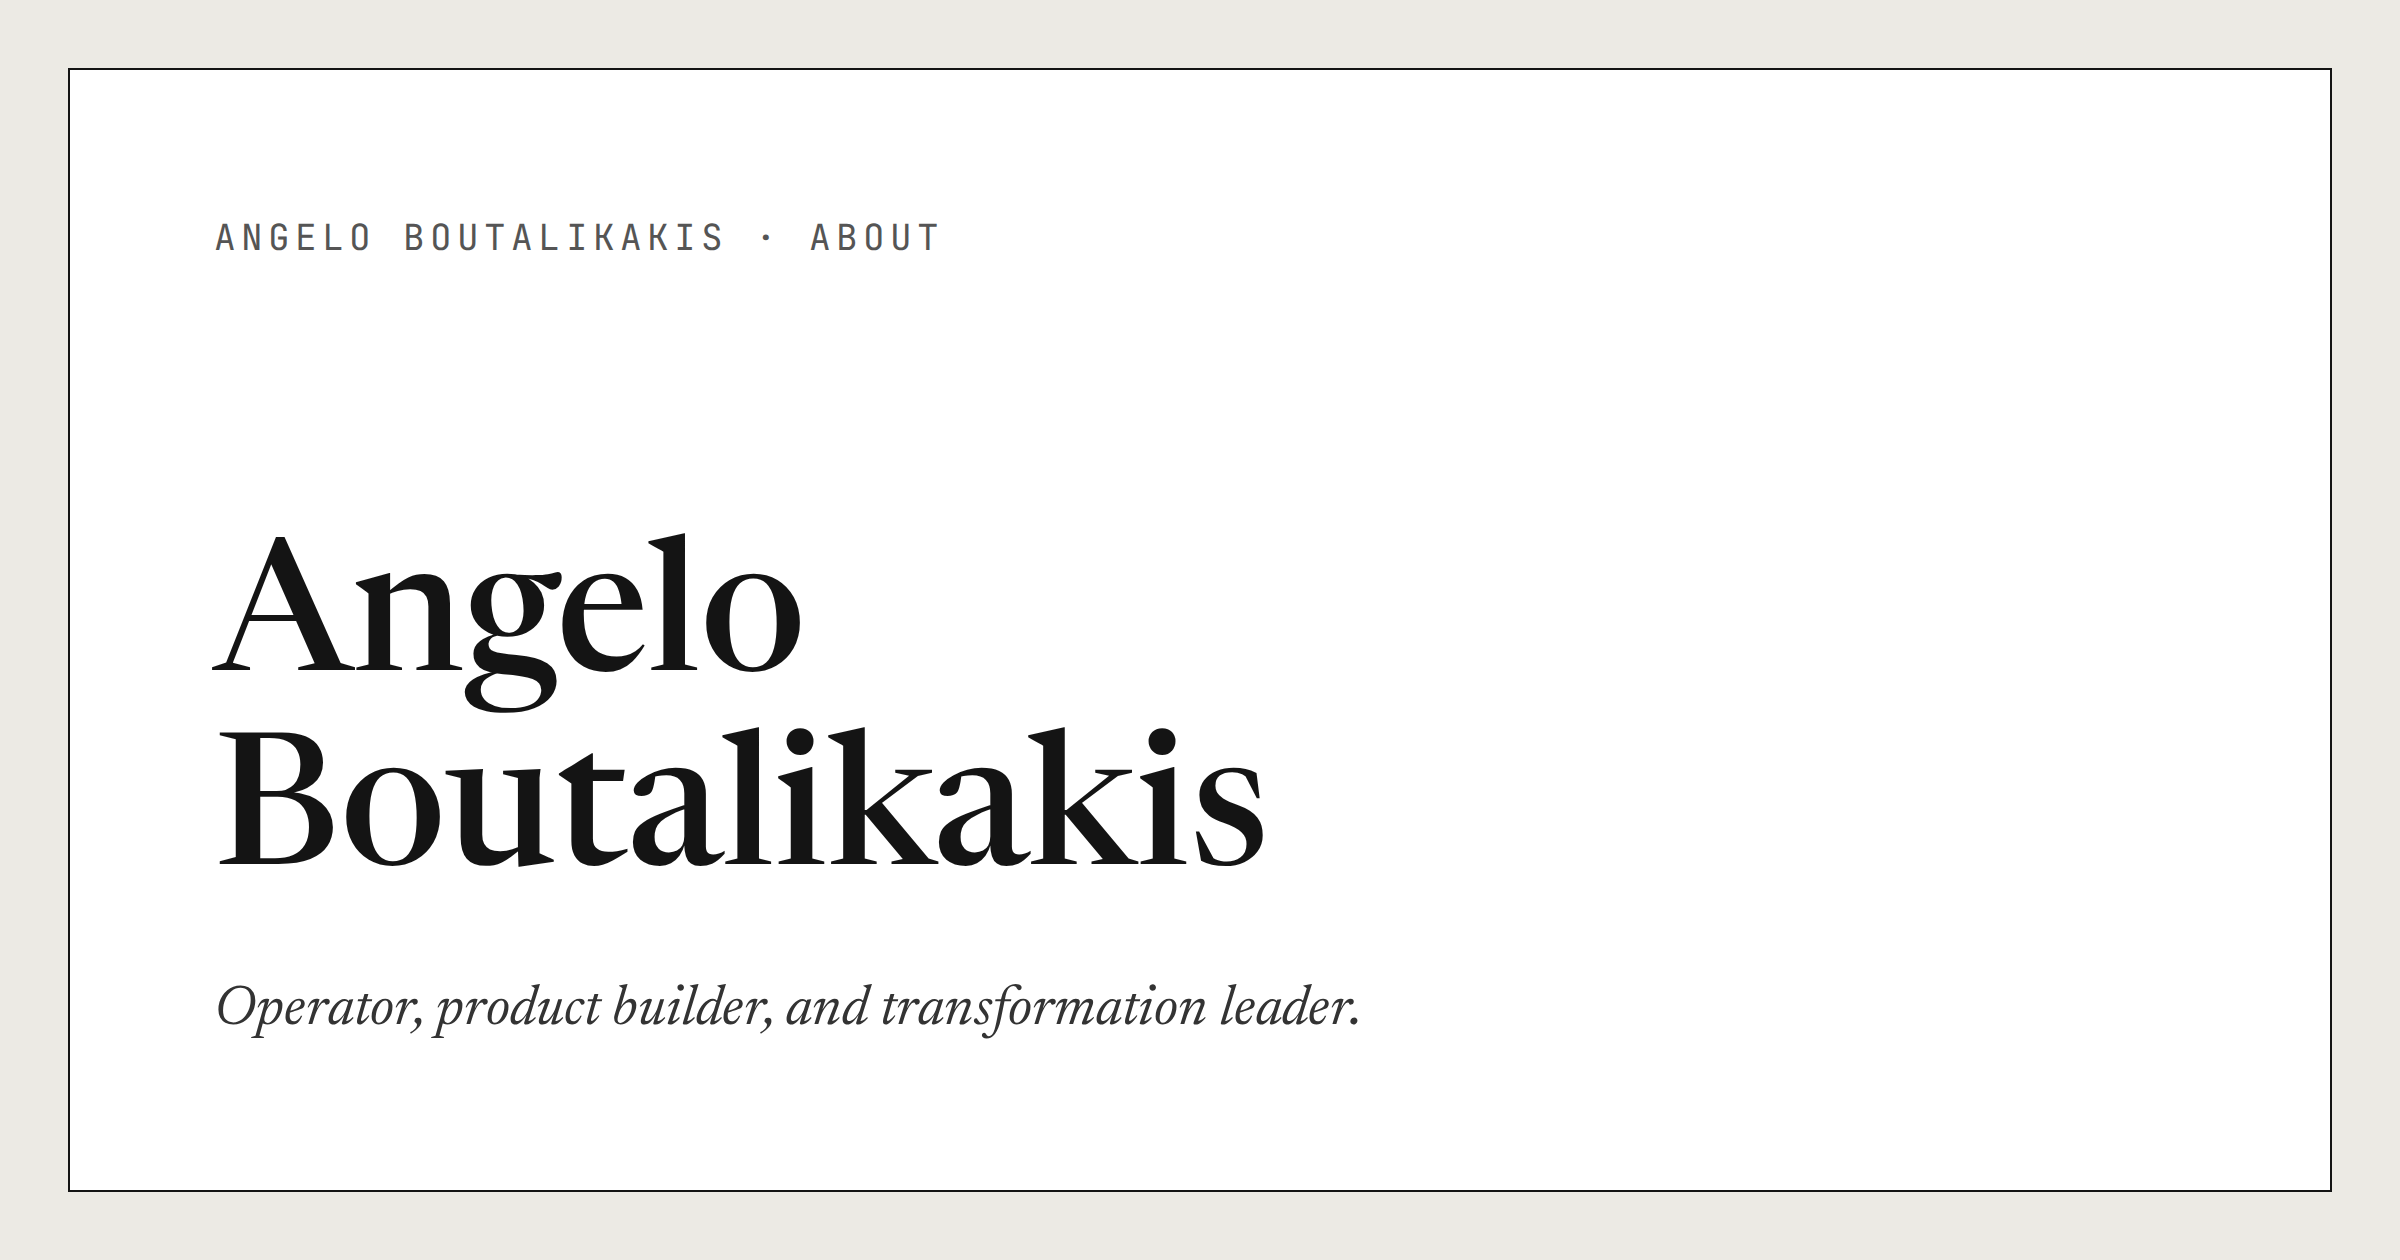
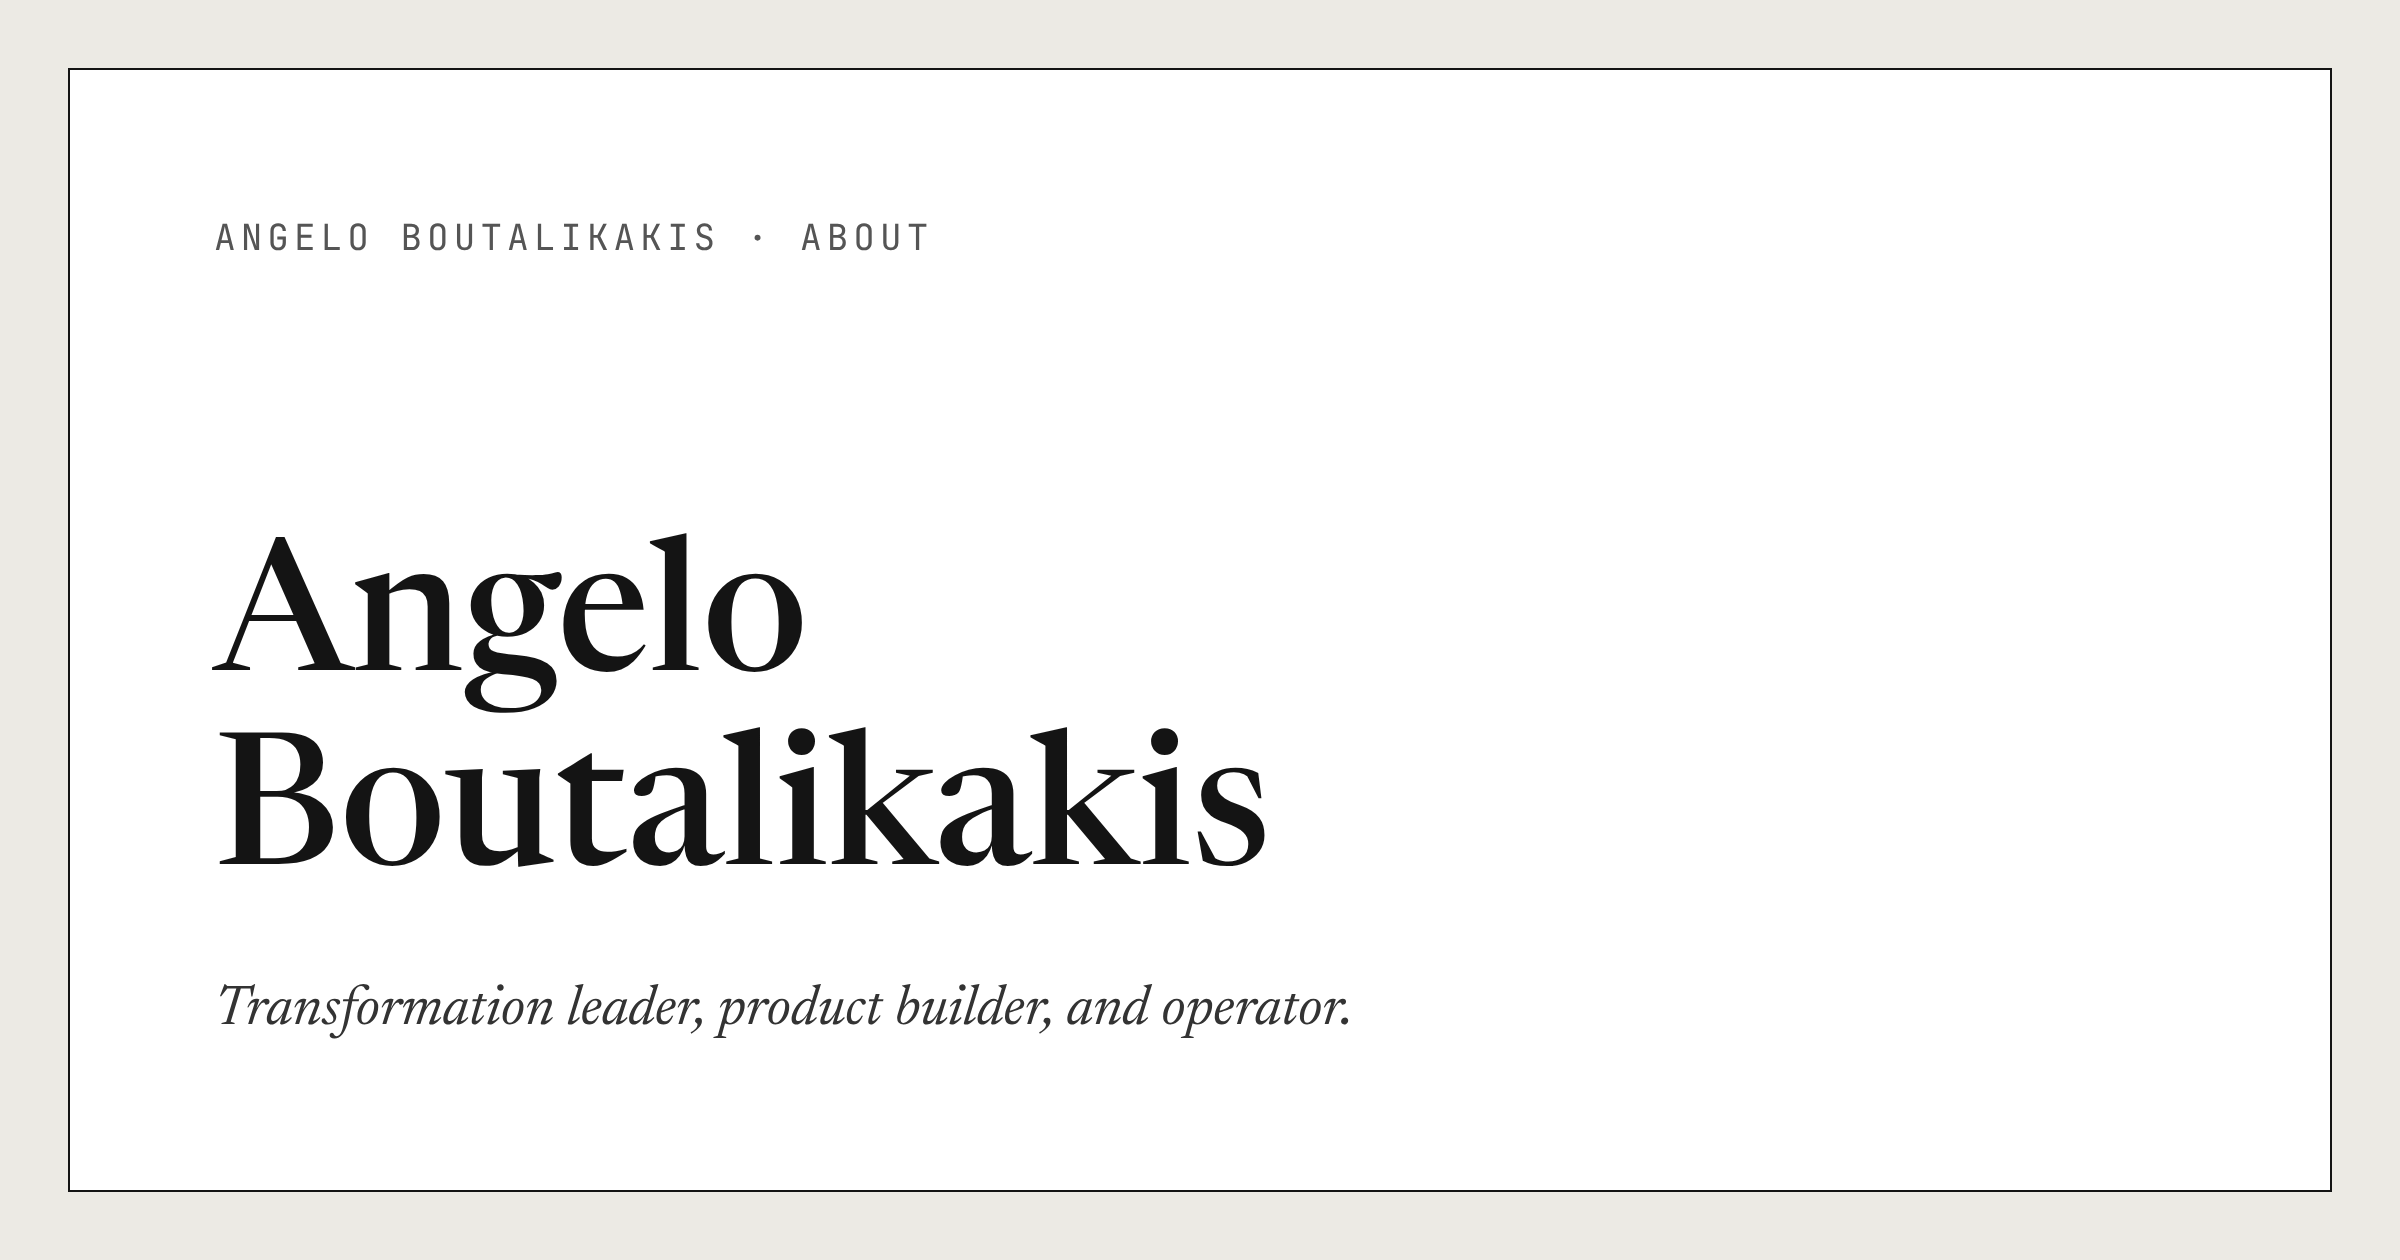
Reorder role line and trim CV profile
- Subtitle now reads "Transformation leader, product builder, and
  operator" on the home page, the CV, the share cards and the design doc.
- CV profile: "One of his current projects is a healthcare MCP server."
- CV experience: drop the practice-affiliation sentence.
- Regenerate og-image.png and og-about.png for the new subtitle.

Claude-Session: https://claude.ai/code/session_013sXebmGQ8YXRCXBvY6kLfe

diff --git a/cv/index.html b/cv/index.html
@@ -113,7 +113,7 @@
         <div class="cv-id">
         <p class="kicker">Curriculum vitae</p>
         <h1>Dr. Angelo Boutalikakis</h1>
-        <p class="subtitle">Operator, product builder, and transformation leader.</p>
+        <p class="subtitle">Transformation leader, product builder, and operator.</p>
         <p class="cv-contact">
           <span>Zurich, Switzerland</span>
           <a href="mailto:hello@boutalikakis.com">hello@boutalikakis.com</a>
@@ -132,9 +132,9 @@
           He joined McKinsey &amp; Company in 2017 and works as an Engagement Manager. His work
           spans insurance, health insurance, healthcare, consumer goods, telecommunications,
           media, and energy.</p>
-        <p>Angelo builds software with AI. His current project is an MCP server on Swiss
-          health-insurance and healthcare data. He holds a PhD in strategic management, magna
-          cum laude, from Universität Passau. He published in the Journal of Product Innovation
+        <p>Angelo builds software with AI. One of his current projects is a healthcare MCP
+          server. He holds a PhD in strategic management, magna cum laude, from Universität
+          Passau. He published in the Journal of Product Innovation
           Management and Harvard Business Review.</p>
       </div>
 
@@ -145,9 +145,9 @@
         <div>
           <span class="role">McKinsey &amp; Company</span>
           <span class="org">Zurich</span>
-          <p>Leads strategy, transformation, and digital engagements. Belongs to the firm's
-            digital business-building practice. Sectors: insurance, health insurance,
-            healthcare, and consumer. Works across Europe, the US, India, and Africa.</p>
+          <p>Leads strategy, transformation, and digital engagements. Sectors: insurance,
+            health insurance, healthcare, and consumer. Works across Europe, the US, India,
+            and Africa.</p>
         </div>
       </div>
 

diff --git a/index.html b/index.html
@@ -56,7 +56,7 @@
 
       <div class="titleblock">
         <h1>Dr. Angelo Boutalikakis</h1>
-        <p class="subtitle">Operator, product builder, and transformation leader</p>
+        <p class="subtitle">Transformation leader, product builder, and operator</p>
         <p class="kicker">Zurich, Switzerland</p>
       </div>
 

diff --git a/brand/DESIGN_SYSTEM.md b/brand/DESIGN_SYSTEM.md
@@ -1,7 +1,7 @@
 # Academic, design system for www.boutalikakis.com
 
-The personal site of Dr. Angelo Boutalikakis (operator, product builder,
-transformation leader, Zurich). This is the v4 identity, chosen over the
+The personal site of Dr. Angelo Boutalikakis (transformation leader, product builder,
+operator, Zurich). This is the v4 identity, chosen over the
 "Maison" and "Thread" directions. It replaces the v3 cobalt and Archivo
 identity.
 
